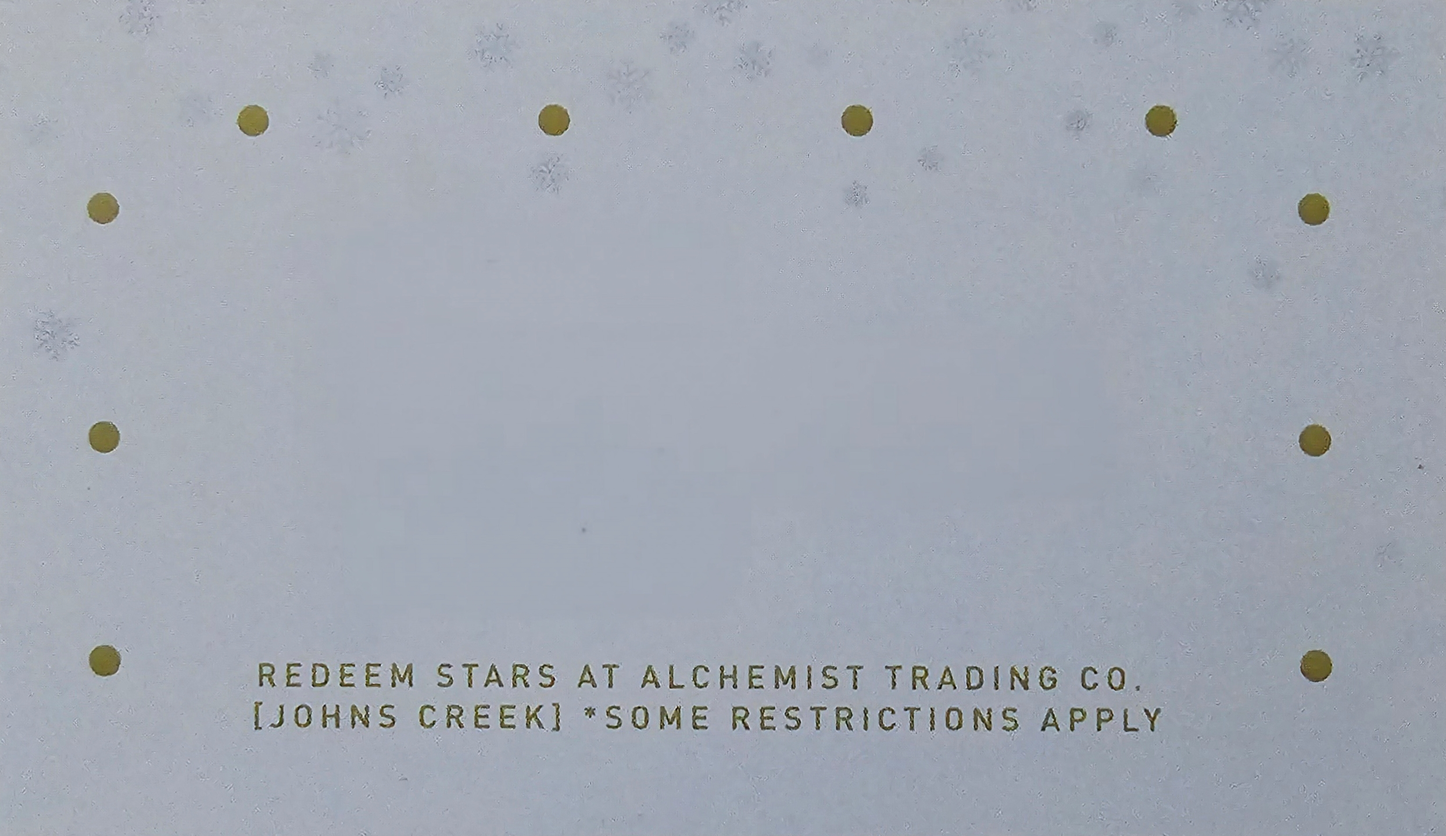
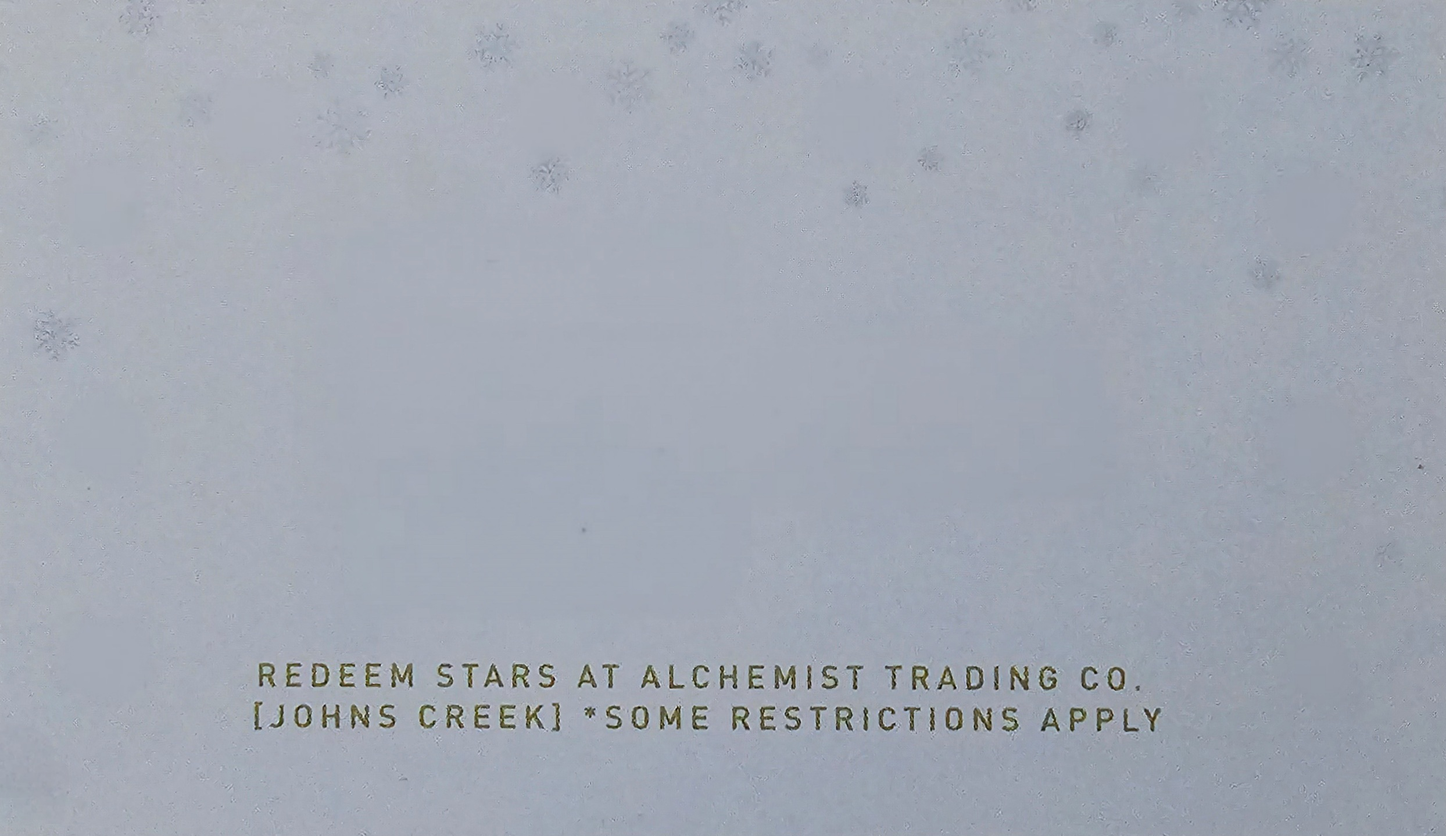
add punch nodes

diff --git a/src/components/rewards-card/rewards-card.tsx b/src/components/rewards-card/rewards-card.tsx
@@ -4,19 +4,20 @@ import { motion } from "framer-motion";
 import front from "@PNN/assests/front.jpg";
 import back from "@PNN/assests/back.jpg";
 import { Tables } from "@PNN/utils/data-access/database.types";
+import PunchNode from "./punch-node";
 import { Button } from "@PNN/components/ui/button";
+import { updateRewardPoints } from "@PNN/utils/data-access/data-acess";
 interface RewardsCardProps {
   card: Tables<"reward_card">;
-  updatePoints: (cardId: string, points: number) => Promise<any>;
 }
 
 const RewardsCard: React.FC<PropsWithChildren<RewardsCardProps>> = ({
   card,
-  updatePoints,
   children,
 }) => {
   const [isFlipped, setIsFlipped] = useState(false);
   const [isAnimating, setIsAnimating] = useState(false);
+  const limit = 10;
 
   function handleFlip() {
     if (!isAnimating) {
@@ -26,7 +27,7 @@ const RewardsCard: React.FC<PropsWithChildren<RewardsCardProps>> = ({
   }
 
   return (
-    <div className="flex flex-col h-full items-center justify-center cursor-pointer">
+    <div className="flex flex-col  gap-3 h-full items-center justify-center cursor-pointer">
       <div
         className="flip-card  w-[375px] h-[225px] rounded-md"
         onClick={handleFlip}
@@ -48,36 +49,47 @@ const RewardsCard: React.FC<PropsWithChildren<RewardsCardProps>> = ({
           ></div>
 
           <div
-            className="flip-card-back w-full h-full bg-cover border-[1px] text-white rounded-lg p-4"
+            className="flip-card-back w-full h-full bg-cover border-[1px] text-white rounded-lg "
             style={{
               backgroundImage: `url(${back.src})`,
               backgroundSize: "100% 100%",
               backgroundRepeat: "no-repeat",
             }}
           >
-            <div className="grid grid-rows-4 grid-cols-3 w-full h-full">
-              <div className="item1">{card.points}</div>
-              <div className="item2 justify-self-center row-start-2 col-start-2">
+            <div className="absolute top-1 left-2">{card.points}</div>
+            <div className="grid grid-cols-6 h-full p-4">
+              <div className="justify-self-center row-start-2 col-start-2 col-span-4 row-span-3">
                 {children}
               </div>
+              {Array(limit)
+                .fill(0)
+                .map((_, i) => {
+                  let className = "justify-self-center";
+                  if (i == 0 || i === 5) {
+                    className = `${className} row-span-2 self-center`;
+                  }
+
+                  return (
+                    <div key={i} className={className}>
+                      <PunchNode
+                        cardId={card.id}
+                        total={card.points}
+                        punched={i < card.points}
+                      ></PunchNode>
+                    </div>
+                  );
+                })}
             </div>
           </div>
         </motion.div>
       </div>
-      <div className="mt-1 flex gap-1">
-        <Button
-          variant="outline"
-          onClick={() => updatePoints(card.id, card.points + 1)}
-        >
-          tickup
-        </Button>
-        <Button
-          variant="outline"
-          onClick={() => updatePoints(card.id, card.points - 1)}
-        >
-          tickdown
-        </Button>
-      </div>
+      {limit === card.points && (
+        <div>
+          <Button onClick={() => updateRewardPoints(card.id, 0)}>
+            Redeem Points
+          </Button>
+        </div>
+      )}
     </div>
   );
 };

diff --git a/src/components/rewards-card/punch-node.tsx b/src/components/rewards-card/punch-node.tsx
@@ -1,0 +1,57 @@
+"use client";
+import { updateRewardPoints } from "@PNN/utils/data-access/data-acess";
+import { useEffect, useState } from "react";
+import { MdStars, MdCircle } from "react-icons/md";
+
+export default function PunchNode({
+  cardId,
+  total,
+  punched,
+}: {
+  cardId: string;
+  total: number;
+  punched: boolean;
+}) {
+  const [isPunched, punchIt] = useState(punched);
+  const [isLoading, setLoading] = useState(false);
+
+  useEffect(() => {
+    if (total === 0) {
+      punchIt(false);
+    }
+  }, [total]);
+
+  async function punchClicked(e: MouseEvent) {
+    e.preventDefault();
+    e.stopPropagation();
+
+    setLoading(true);
+    const count = isPunched ? -1 : 1;
+    await updateRewardPoints(cardId, count + total).finally(() =>
+      setLoading(false)
+    );
+    punchIt(!isPunched);
+  }
+
+  return (
+    <>
+      <div
+        className="w-[24px] h-[24px] flex justify-center items-center"
+        onClick={(e) => punchClicked(e)}
+      >
+        {isLoading && (
+          <MdStars className="animate-ping" fontSize="24"></MdStars>
+        )}
+        {!isLoading && (
+          <>
+            {isPunched ? (
+              <MdStars color="#857A46" fontSize="24"></MdStars>
+            ) : (
+              <MdCircle color="#857A46" fontSize="small"></MdCircle>
+            )}
+          </>
+        )}
+      </div>
+    </>
+  );
+}
